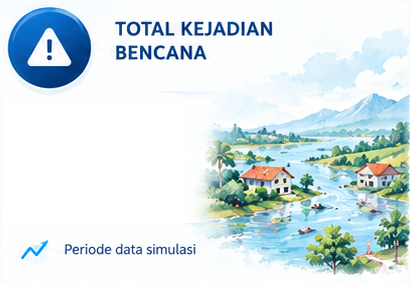
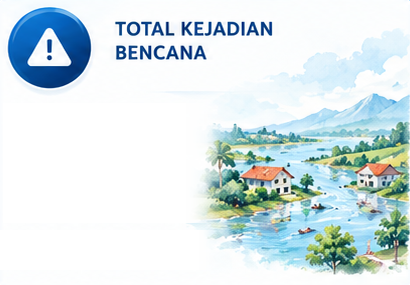
update v.5.12

Changed region(s): [[0.1463, 0.8421, 0.4976, 0.8982], [0.0585, 0.8421, 0.1171, 0.8982], [0.0293, 0.8982, 0.0585, 0.9263]]

diff --git a/src/components/dashboard/StatCards.tsx b/src/components/dashboard/StatCards.tsx
@@ -1,7 +1,7 @@
 'use client';
 
 import { useState } from 'react';
-import { ClipboardList, Users, Tent, Home, MapPin, Building2, X } from 'lucide-react';
+import { ClipboardList, Users, Tent, Home, TrendingUp, MapPin, Building2, X } from 'lucide-react';
 import { DIBI_TOTAL } from '@/data/dibiStats';
 
 type CardIcon = React.ReactNode;
@@ -256,9 +256,17 @@ export default function StatCards({ status, regionData, regionLabel, onClearRegi
                 </span>
               </div>
 
-              {/* Filtered Region/Disaster Badge if active */}
+              {/* Bottom-left dynamic note (replaces 'Periode data simulasi' from presentation) */}
+              <div className="absolute left-[5%] bottom-[7.5%] flex items-center gap-1.5 pointer-events-none max-w-[58%] truncate">
+                <TrendingUp className="w-3.5 h-3.5 text-[#1f8080] shrink-0" />
+                <span className="text-[10px] sm:text-[11px] font-semibold text-slate-600 truncate">
+                  {card.trend}
+                </span>
+              </div>
+
+              {/* Filtered Region/Disaster Badge if active (Moved to bottom right) */}
               {regionLabel && (
-                <div className="absolute top-2.5 right-2.5 px-2 py-0.5 rounded-full bg-white/95 backdrop-blur-md border border-slate-300 text-[10px] font-black text-[#0a1e36] shadow-sm truncate max-w-[130px]">
+                <div className="absolute bottom-2.5 right-2.5 px-2.5 py-0.5 rounded-full bg-white/95 backdrop-blur-md border border-slate-300 text-[10px] font-black text-[#0a1e36] shadow-sm truncate max-w-[130px] z-10">
                   {regionLabel}
                 </div>
               )}
